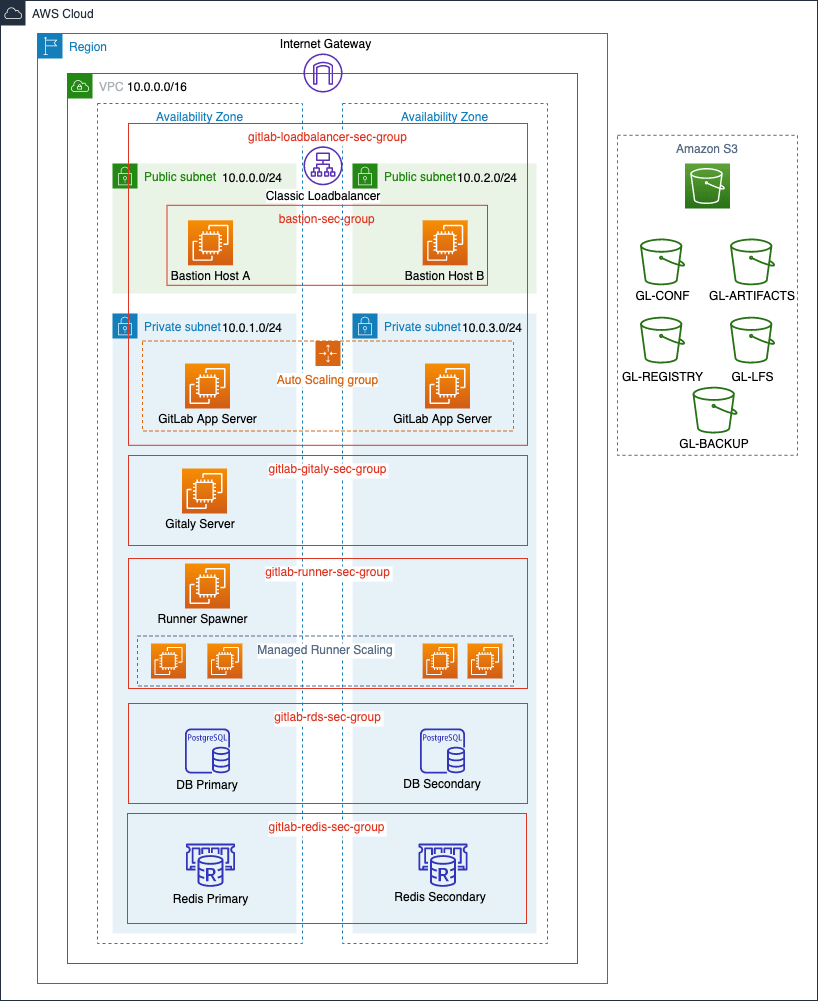
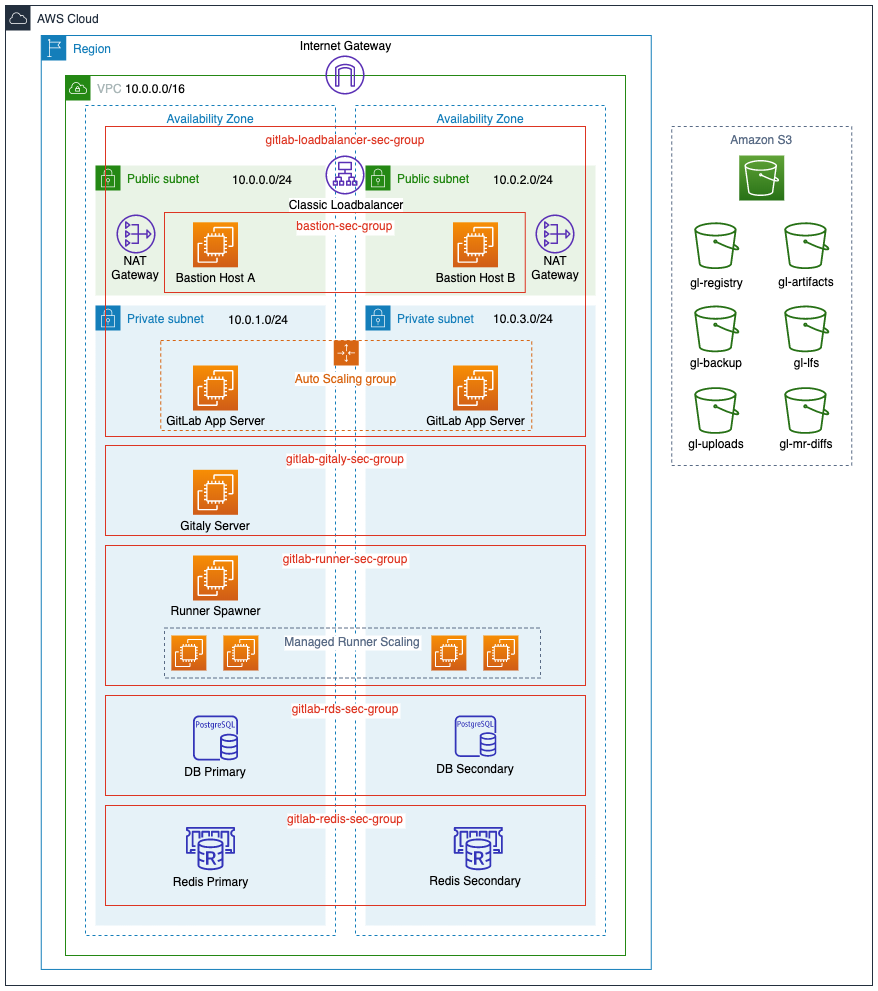
Add Nat Gateways to Networking section

Changed region(s): [[0.0, 0.0, 1.0, 1.0], [0.489, 0.8174, 0.6112, 0.9082], [0.1834, 0.8174, 0.3056, 0.9082]]

diff --git a/doc/install/aws/index.md b/doc/install/aws/index.md
@@ -122,6 +122,19 @@ RDS instances as well:
    | `gitlab-public-10.0.2.0`  | public  | `us-west-2b`      | `10.0.2.0` |
    | `gitlab-private-10.0.3.0` | private | `us-west-2b`      | `10.0.3.0` |
 
+### Create NAT Gateways
+
+Instances deployed in our private subnets need to connect to the internet for updates, but should not be reachable from the public internet. To achieve this, we'll make use of [NAT Gateways](https://docs.aws.amazon.com/vpc/latest/userguide/vpc-nat-gateway.html) deployed in each of our public subnets:
+
+1. Navigate to the VPC dashboard and click on **NAT Gateways** in the left menu bar.
+1. Click **Create NAT Gateway** and complete the following:
+   1. **Subnet**: Select `gitlab-public-10.0.0.0` from the dropdown.
+   1. **Elastic IP Allocation ID**: Enter an existing Elastic IP or click **Allocate Elastic IP address** to allocate a new IP to your NAT gateway.
+   1. Add tags if needed.
+   1. Click **Create NAT Gateway**.
+
+Create a second NAT gateway but this time place it in the second public subnet, `gitlab-public-10.0.2.0`.
+
 ### Route Table
 
 Up to now all our subnets are private. We need to create a Route Table
